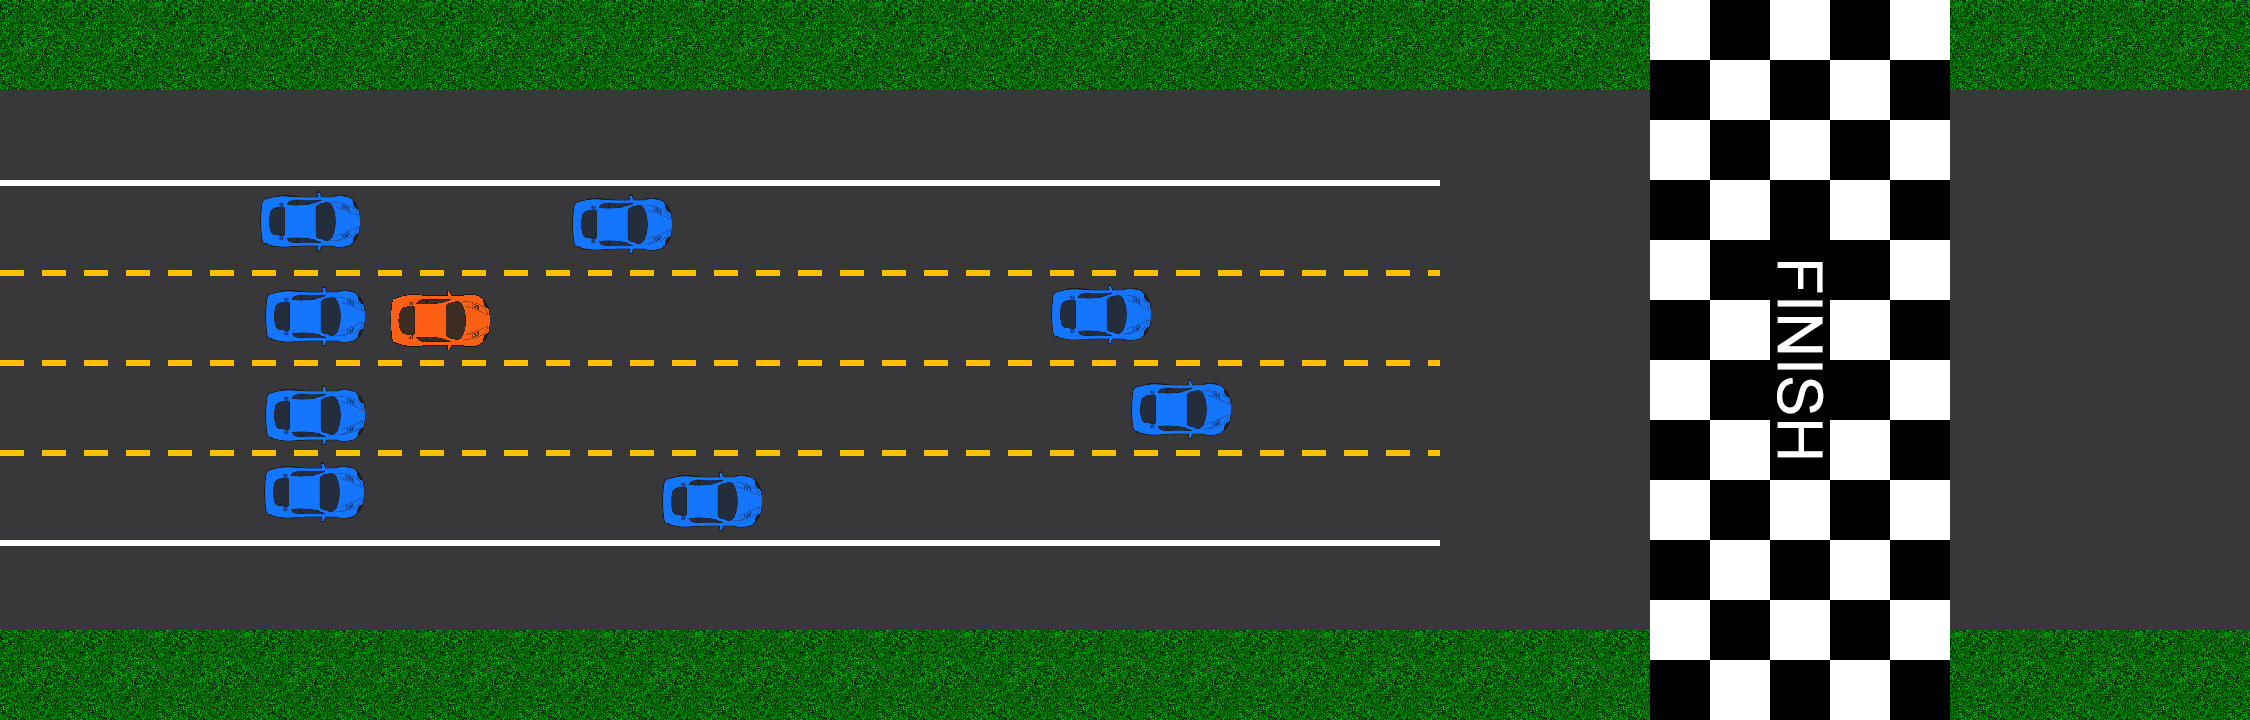
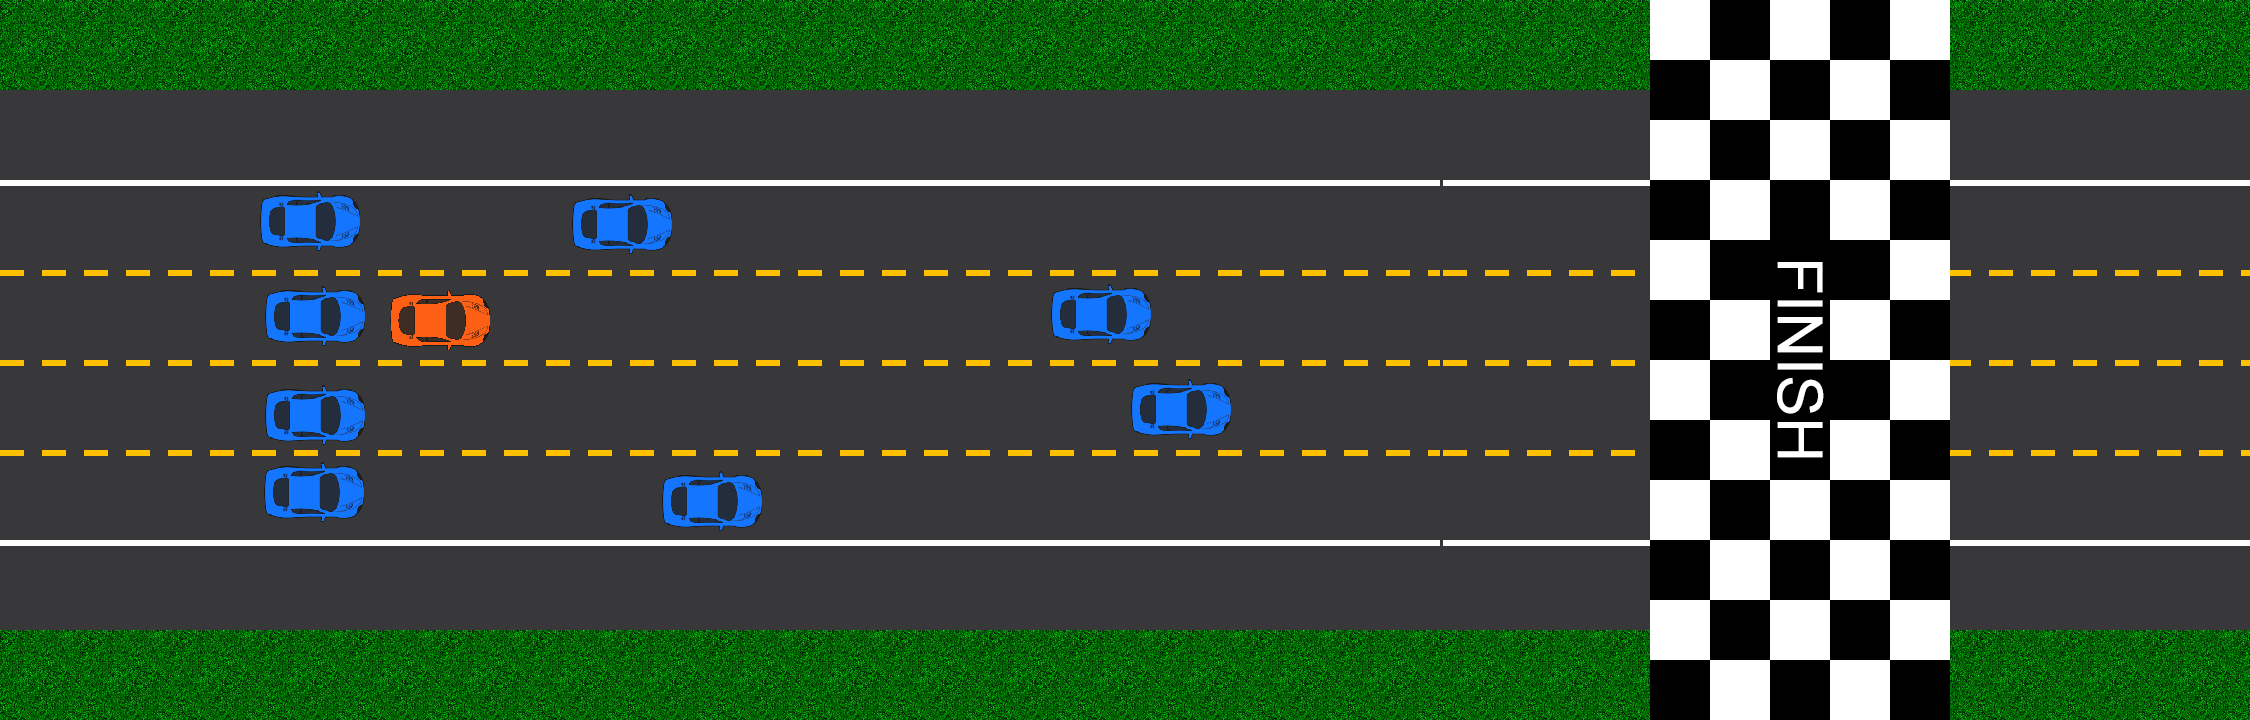
fixed issue where lane lines didn't draw the full length of road

diff --git a/Code/window_class.py b/Code/window_class.py
@@ -65,7 +65,7 @@ class Window():
         self.lane_count=4
         
         # Redraw shoulder lines
-        shoulder_count=WorldSize_px[0]//self.solid_line.get_width()
+        shoulder_count=WorldSize_px[0]//self.solid_line.get_width()+1
 
         top_shoulder_pos_y=2*self.lane_width-self.y
         top_shoulder_pos_x=0
@@ -92,7 +92,7 @@ class Window():
                 
             
         # Redraw lane lines
-        lane_art_count=WorldSize_px[0]//self.lane_line.get_width()
+        lane_art_count=WorldSize_px[0]//self.lane_line.get_width()+1
         for i in range(self.lane_count-1):
             lane_pos_y=i*self.lane_width-self.y+3*self.lane_width
             # only draw the lines that would be visible (for speed)
